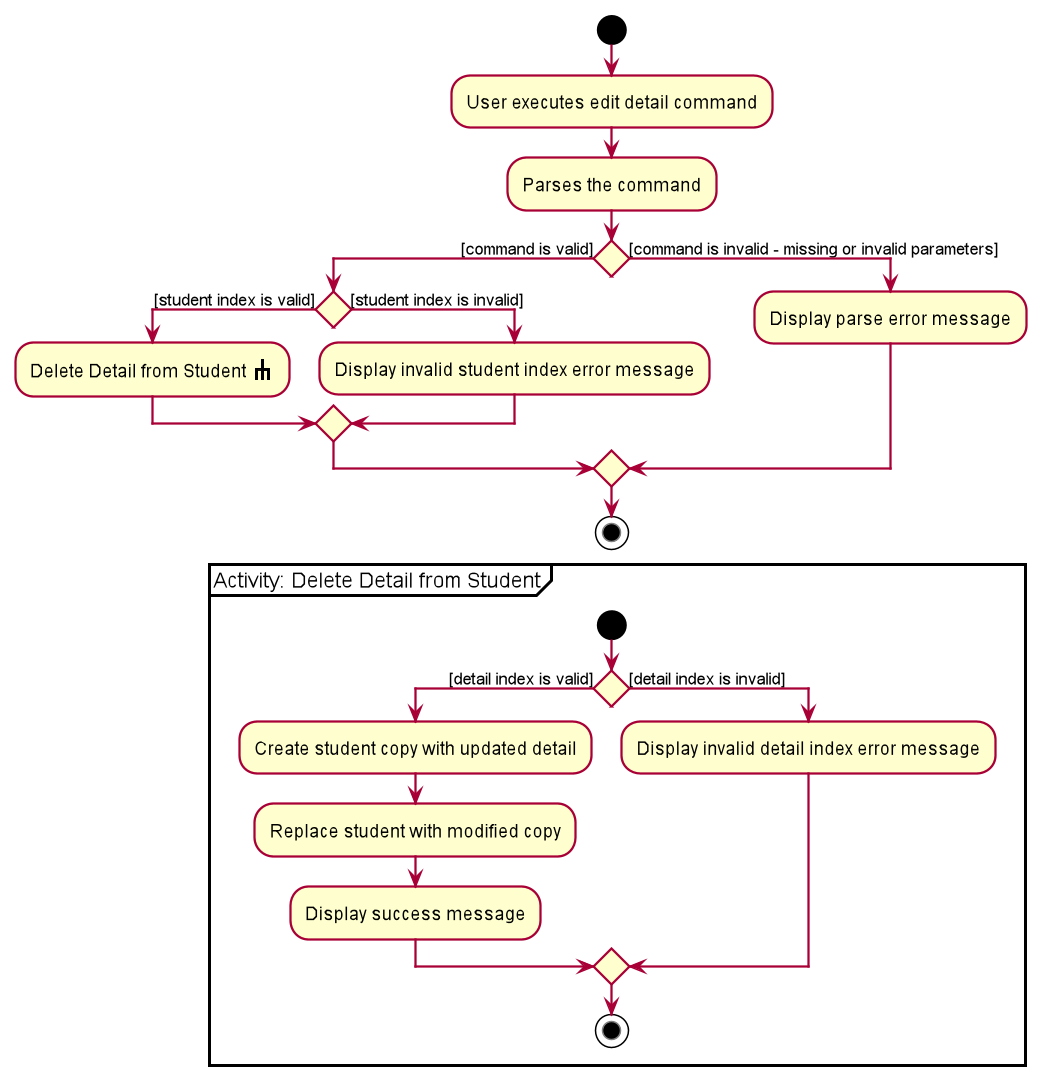
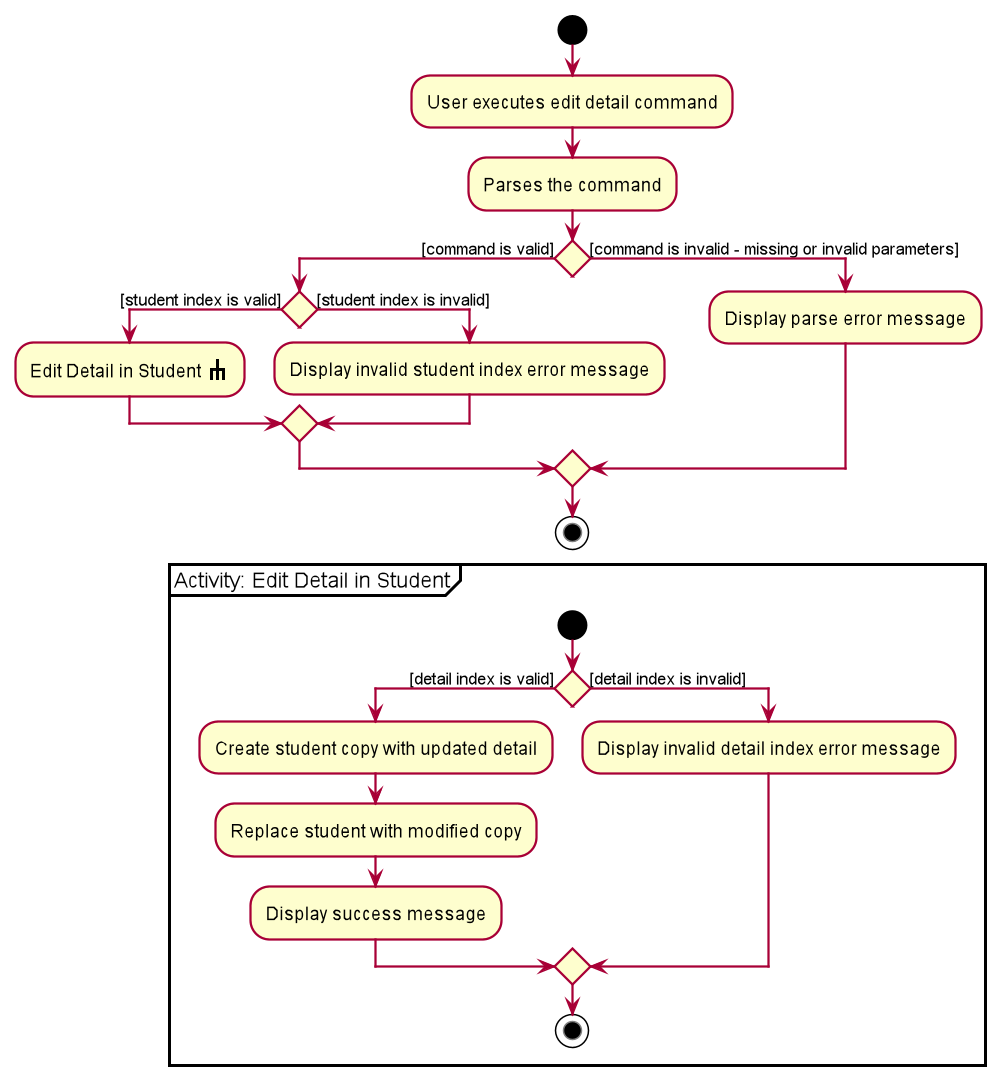
Edit Developer Guide

diff --git a/docs/DeveloperGuide.md b/docs/DeveloperGuide.md
@@ -23,12 +23,16 @@
         * [6.2.3 Delete student command](#623-delete-student-command)
         * [6.2.4 Find student command](#624-find-student-command)  
         * [6.2.5 Overdue command](#625-overdue-command)
+        * [6.2.6 Detail commands](#626-detail-commands)
+            *[6.2.6.1 Add detail command](#6261-add-detail-command)
+            *[6.2.6.2 Edit detail command](#6262-edit-detail-command)
+            *[6.2.6.3 Delete detail command](#6263-delete-detail-command)            
     * [6.3 Student academic details features](#63-student-academic-details-features)
-        * [6.3.1 Student questions features](#631-student-questions-features)
+        * [6.3.1 Question Commands](#631-question-commands)
             * [6.3.1.1 Add question command](#6311-add-question-command)
             * [6.3.1.2 Solve question command](#6312-solve-question-command)
             * [6.3.1.3 Delete question command](#6313-delete-question-command)
-        * [6.3.2 Student exam features](#632-student-exam-features)
+        * [6.3.2 Exam Commands](#632-exam-commands)
             * [6.3.2.1 Add exam command](#6321-add-exam-command)
             * [6.3.2.2 Delete exam command](#6322-delete-exam-command)
             * [6.3.2.3 Exam Stats command](#6323-exam-stats-command)
@@ -382,11 +386,92 @@ The following activity diagram summarises the flow of events when `OverdueComman
 
 Figure 5.1.5.2. Activity diagram for `OverdueCommand` execution
 
+
+#### 6.2.6 Detail Commands
+
+The student additional details feature keeps track of any additional details a tutor wants to add to a student. It comprises of the following commands:
+
+* `AddDetailCommand` - Adds a detail to a specified student.
+* `EditDetailCommand` - Edits a specified detail in a specified student.
+* `DeleteDetailCommand` - Deletes a specified detail from a specified student.
+
+##### 6.2.6.1 Add Detail Command
+
+The following describes the flow of how `AddDetailCommand` is performed.
+
+1. Upon successfully parsing the user input, `AddDetailCommand#execute(Model model)`, and it checks if the student at the specified position exists.
+2. If there is no student at the specified position,  a `CommandException` is thrown and the detail will not be added.
+3. If the student exists, the detail is added to the student's list of details, and `DetailCommand#updateStudentDetail(Student studentToAddDetail, List<Detail> details)` is called to create a modified copy of the student with the new detail.
+4. `Model#setStudent(Student target, Student editedStudent)` is called to replace the student with the modified copy. A new `CommandResult` is returned with a success message showing the affected student and the detail added.
+5. The modified student replaces the outdated student in the `UniqueStudentList` and a success message is shown in the result display.
+
+The following sequence diagram shows how the detail adding operation works.
+
+![AddDetailSequence](images/AddDetailSequenceDiagram.png)
+
+Figure 5.2.1.1. Sequence diagram for `AddDetailCommand` execution
+
+The following activity diagram summarises the flow of events when `AddDetailCommand` is executed.
+
+![AddDetailActivity](images/AddDetailActivityDiagram.png)
+
+Figure 5.2.1.2. Activity diagram for `AddDetailCommand` execution
+
+##### 6.2.6.2 Edit Detail Command
+
+The following describes the flow of how `EditDetailCommand` is performed.
+
+1. Upon successfully parsing the user input, `EditDetailCommand#execute(Model model)`, and it checks if the student at the specified position exists.
+2. If there is no student at the specified position,  a `CommandException` is thrown and the detail will not be edited.
+3. If the student exists, `EditDetailCommand#execute(Model model)` then checks if the detail at the specified position exists.
+4. If there is no detail at the specified position, a `CommandException` is thrown and the detail will not be edited. 
+5. If the detail exists, the newly updated detail is added to the student's list of details, and `DetailCommand#updateStudentDetail(Student studentToEditDetail, List<Detail> details)` is called to create a modified copy of the student with the new detail.
+6. `Student#addQuestion(Question question)` is called to create a modified copy of the student with a newly added question.
+7. `Model#setStudent(Student target, Student editedStudent)` is called to replace the student with the modified copy. A new `CommandResult` is returned with a success message showing the affected student and the detail added.
+8. The modified student replaces the outdated student in the `UniqueStudentList` and a success message is shown in the result display.
+
+The following sequence diagram shows how the detail editing operation works.
+
+![EditDetailSequence](images/EditDetailSequenceDiagram.png)
+
+Figure 5.2.1.1. Sequence diagram for `EditDetailCommand` execution
+
+The following activity diagram summarises the flow of events when `EditDetailCommand` is executed.
+
+![EditDetailActivity](images/EditDetailActivityDiagram.png)
+
+Figure 5.2.1.2. Activity diagram for `EditDetailCommand` execution
+
+##### 6.2.6.3 Delete Detail Command
+
+The following describes the flow of how `DeleteDetailCommand` is performed.
+
+1. Upon successfully parsing the user input, `DeleteDetailCommand#execute(Model model)`, and it checks if the student at the specified position exists.
+2. If there is no student at the specified position,  a `CommandException` is thrown and the detail will not be deleted.
+3. If the student exists, `DeleteDetailCommand#execute(Model model)` then checks if the detail at the specified position exists.
+4. If there is no detail at the specified position, a `CommandException` is thrown and the detail will not be deleted. 
+5. If the detail exists, the detail is removed from the student's list of details, and `DetailCommand#updateStudentDetail(Student studentToDeleteDetail, List<Detail> details)` is called to create a modified copy of the student with detail removed.
+6. `Student#addQuestion(Question question)` is called to create a modified copy of the student with a newly added question.
+7. `Model#setStudent(Student target, Student editedStudent)` is called to replace the student with the modified copy. A new `CommandResult` is returned with a success message showing the affected student and the removed detail.
+8. The modified student replaces the outdated student in the `UniqueStudentList` and a success message is shown in the result display.
+
+The following sequence diagram shows how the detail deleting operation works.
+
+![DeleteDetailSequence](images/DeleteDetailSequenceDiagram.png)
+
+Figure 5.2.1.1. Sequence diagram for `DeleteDetailCommand` execution
+
+The following activity diagram summarises the flow of events when `DeleteDetailCommand` is executed.
+
+![DeleteDetailActivity](images/DeleteDetailActivityDiagram.png)
+
+Figure 5.2.1.2. Activity diagram for `DeleteDetailCommand` execution
+
 ### 6.3 Student academic details features
 
 This section describes some key details on how academic details features are implemented.
 
-#### 6.3.1 Student questions features
+#### 6.3.1 Question Commands
 
 The student questions feature keeps track of questions raised by a student to his tutor. It comprises of the following commands:
 
@@ -403,7 +488,7 @@ The following describes the flow of how `AddQuestionCommand` is performed.
 3. If the student exists, `AddQuestionCommand#execute(Model model)` checks if the student already has a similar question recorded.
 4. A unique question is defined solely by its `question` and does not take into account if the question has been solved. If a duplicate question is found, a `CommandException` is thrown and the question will not be added.
 5. If the question is not a duplicate, `Student#addQuestion(Question question)` is called to create a modified copy of the student with a newly added question.
-6. `Model#setPerson(Student target, Student editedStudent)` is called to replace the student with the modified copy. A new `CommandResult` is returned with a success message showing the affected student and the question added.
+6. `Model#setStudent(Student target, Student editedStudent)` is called to replace the student with the modified copy. A new `CommandResult` is returned with a success message showing the affected student and the question added.
 7. The modified student replaces the outdated student in the `UniqueStudentList` and a success message is shown in the result display.
 
 The following sequence diagram shows how the question adding operation works.
@@ -427,7 +512,7 @@ The following describes the flow of how `SolveQuestionCommand` is performed.
 3. If the student exists, `SolveQuestionCommand#execute(Model model)` checks if there is a question at the specified position.
 4. If the question does not exist, a `CommandException` is thrown and the question will not be resolved.
 5. If the question exists, `Student#setQuestion(Question target, Question newQuestion)` is called to create a modified copy of the student where the specified question has been replaced with a solved version.
-6. `Model#setPerson(Student target, Student editedStudent)` is called to replace the student with the modified copy. A new `CommandResult` is returned with a success message showing the affected student and the question solved.
+6. `Model#setStudent(Student target, Student editedStudent)` is called to replace the student with the modified copy. A new `CommandResult` is returned with a success message showing the affected student and the question solved.
 7. The modified student replaces the outdated student in the `UniqueStudentList` and a success message is shown in the result display.
 
 The following sequence diagram shows how the question solving operation works.
@@ -451,7 +536,7 @@ The following describes the flow of how `DeleteQuestionCommand` is performed.
 3. If the student exists, `DeleteQuestionCommand#execute(Model model)` checks if there is a question at the specified position.
 4. If the question does not exist, a `CommandException` is thrown and the question will not be resolved.
 5. If the question exists, `Student#deleteQuestion(Question target)` is called to create a modified copy of the student without the specified question.
-6. `Model#setPerson(Student target, Student editedStudent)` is called to replace the student with the modified copy. A new `CommandResult` is returned with a success message showing the affected student and the question removed.
+6. `Model#setStudent(Student target, Student editedStudent)` is called to replace the student with the modified copy. A new `CommandResult` is returned with a success message showing the affected student and the question removed.
 7. The modified student replaces the outdated student in the `UniqueStudentList` and a success message is shown in the result display.
 
 The following sequence diagram shows how the question deletion operation works.
@@ -466,7 +551,7 @@ The following activity diagram summarises the flow of events when `DeleteQuestio
 
 Figure 5.2.3.2. Activity diagram for `DeleteQuestionCommand` execution
 
-#### 6.3.2 Student exam features
+#### 6.3.2 Exam Commands
 
 The student exams feature keeps track of exam records of a student. It comprises of the following commands:
 
@@ -488,7 +573,7 @@ The following describes the flow of how `AddExamCommand` is performed.
 4. A unique exam is defined solely by its `examName`. If a duplicate exam is found, a `CommandException` is thrown and the exam will not be added.
 5. If the exam is not a duplicate, `Student#getExams()` is called get the current list of exams of the specified student.
 6. The new exam is added into this current list and a new updated `Student` is created which is exactly the same characteristics of the specified student but with the updated exam list.
-7. `Model#setPerson(Student selectedStudent, Student updatedStudent)` is called to replace the student with the updated copy. A new `CommandResult` is returned with a success message showing the affected student and the exam added.
+7. `Model#setStudent(Student selectedStudent, Student updatedStudent)` is called to replace the student with the updated copy. A new `CommandResult` is returned with a success message showing the affected student and the exam added.
 8. The updated student replaces the outdated student in the `UniqueStudentList` and a success message is shown in the result display.
 
 The sequence(insert image reference here) of how add exam operates is very similar to that of add question. 
@@ -502,7 +587,7 @@ The following describes the flow of how `DeleteExamCommand` is performed.
 3. If the student exists, `DeleteExamCommand#execute(Model model)` checks if there is a exam at the specified position.
 4. If the exam does not exist, a `CommandException` is thrown.
 5. If the exam exists, `Student#getExams()` is called get the current list of exams of the specified student.
-6. `Model#setPerson(Student selectedStudent, Student updatedStudent)` is called to replace the student with the modified copy. A new `CommandResult` is returned with a success message showing the affected student and the exam removed.
+6. `Model#setStudent(Student selectedStudent, Student updatedStudent)` is called to replace the student with the modified copy. A new `CommandResult` is returned with a success message showing the affected student and the exam removed.
 7. The modified student replaces the outdated student in the `UniqueStudentList` and a success message is shown in the result display.
 
 <div markdown="block" class="alert alert-info">
